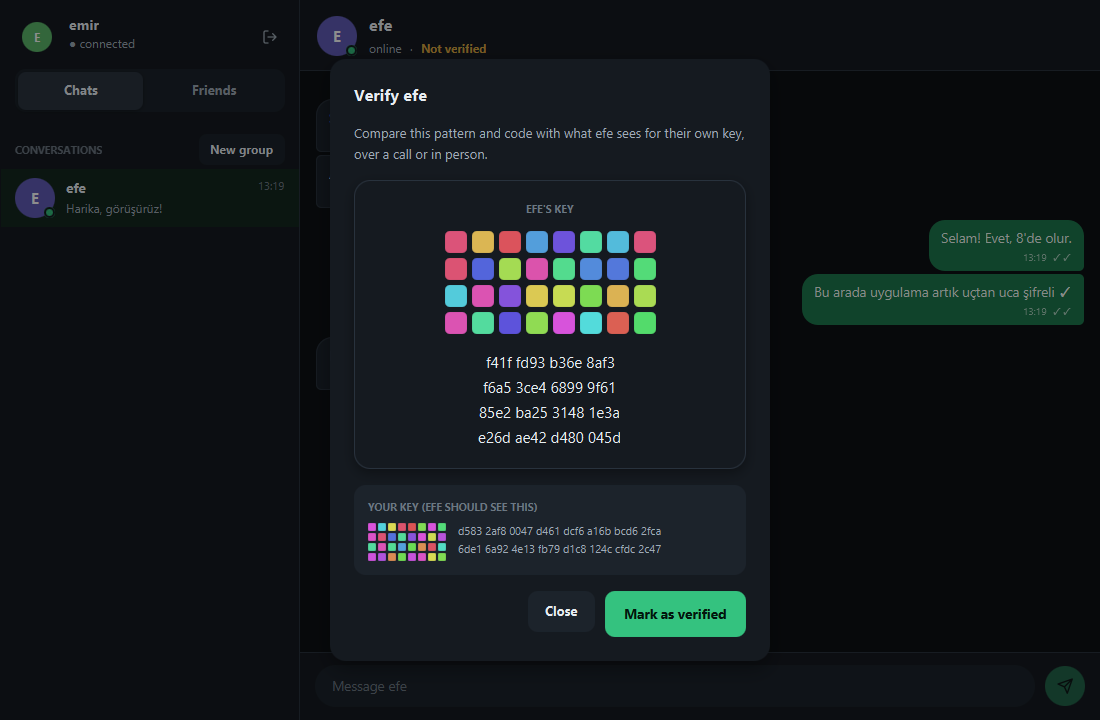
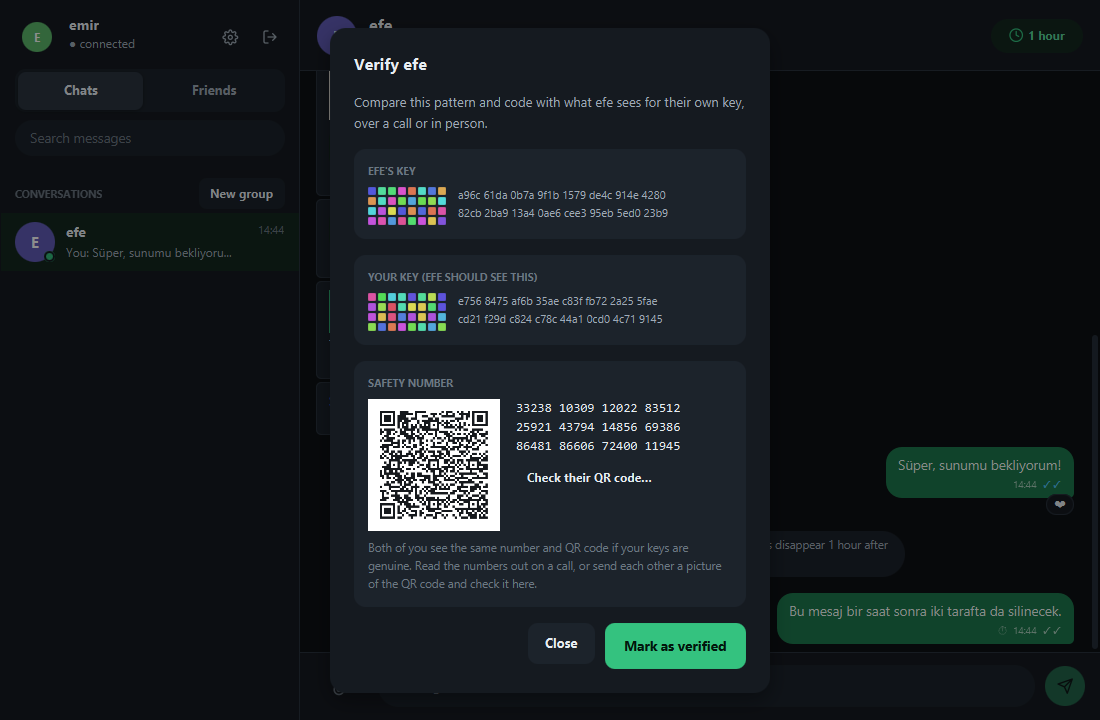
Document v3.2: messaging features, verification, backups, hosting, releases
README: new desktop features, how to verify downloads, a hosting
section, threat-model rows for edits/deletes, safety numbers and
backups, updated tests, limitations and roadmap; new screenshots.
CHANGELOG: 3.2.0 section.

diff --git a/README.md b/README.md
@@ -19,11 +19,22 @@ direct message, and Sender Keys for groups.
 
 ## Quick start
 
-Download the jar for your platform from the [latest release](https://github.com/aemircicek/secure-chat/releases/latest)
-(Java 21+ required), or build it yourself with `mvn verify`.
+From the [latest release](https://github.com/aemircicek/secure-chat/releases/latest), download
+either a package with Java included (Windows: portable `.zip`, macOS: `.dmg`, Linux: `.deb`) or
+the jar for your platform (Java 21+ required). Or build it yourself with `mvn verify`.
+
+Check a download before running it, with the checksum file or GitHub's signed build provenance:
 
 ```sh
-java -jar secure-chat.jar server                    # run a server on port 5056
+sha256sum -c SHA256SUMS --ignore-missing                       # on Windows: Get-FileHash <file>
+gh attestation verify secure-chat-windows-x64.jar -R aemircicek/secure-chat
+```
+
+The packages are not code-signed (that needs paid certificates), so Windows SmartScreen and macOS
+Gatekeeper warn on first start.
+
+```sh
+java -jar secure-chat.jar server                    # run a server on port 5056 (or see docs/deploy.md)
 java -jar secure-chat.jar                           # desktop app: register or log in
 ```
 
@@ -43,12 +54,16 @@ java -jar secure-chat.jar gui --home ./bob
   that it is pinned and a different key is refused.
 - **Friends**: send, accept and decline requests; see who is online.
 - **Direct messages**: end-to-end encrypted, delivered later if your friend is offline, with
-  ✓ sent / ✓✓ delivered marks and unread counts.
+  ✓ sent / ✓✓ delivered / blue ✓✓ read marks and unread counts.
+- **Replies, reactions, edits and deletes**: right-click a message to reply to it, react, edit
+  your own text, or delete it for everyone. Only the author's edits and deletions are accepted.
+- **Typing and read receipts**: friends who are online see when you type, and blue ticks when
+  you have read their messages; both can be turned off in Settings.
 - **Groups**: create a group from your friends, add and remove members, rename it, leave; the
   owner role passes to the longest-standing member if the owner leaves. Group names are end-to-end
   encrypted: the server stores only ciphertext.
-- **Contact verification**: compare a friend's key as a colour pattern and hex code, then mark
-  them verified.
+- **Contact verification**: compare a 60-digit safety number on a call, or check a picture of
+  your friend's QR code; both sides compute the same code from both keys.
 - **Key-change warning**: if a friend's key changes (new device, or an attack), messages to them
   are held back until you verify the new key.
 - **Files and images**: send any file up to 25 MB to a friend or a group (📎 next to the message
@@ -58,10 +73,17 @@ java -jar secure-chat.jar gui --home ./bob
   Everyone in the chat gets the same setting, and new messages and files are deleted from every
   device's history that long after they arrive.
 - **Encrypted history**: messages are stored on disk encrypted under a key derived from your password.
+- **Search**: find messages and file names across all chats (decrypted locally, never sent anywhere).
+- **Notifications**: a desktop notification when a message arrives while the window is in the
+  background; showing the text in it is optional.
+- **Encrypted backup**: Settings → *Back up this account* saves keys, sessions and history in one
+  file encrypted with a passphrase of your choice; *Restore from a backup* on the login screen
+  moves the account to another computer.
 - Light and dark themes, following the system.
 
 <p align="center">
-  <img src="docs/screenshots/account-files-dark.png" width="560" alt="An encrypted image and document in a chat">
+  <img src="docs/screenshots/account-files-dark.png" width="420" alt="An encrypted image and document in a chat">
+  <img src="docs/screenshots/account-rich-light.png" width="420" alt="A reply, an edit, a reaction, read ticks and typing">
 </p>
 
 <p align="center">
@@ -76,6 +98,8 @@ java -jar secure-chat.jar gui --home ./bob
 java -jar secure-chat.jar server [--port 5056] [--bind 0.0.0.0] [--data ~/.securechat-server]
 java -jar secure-chat.jar register --server localhost:5056 --username emir
 java -jar secure-chat.jar client   --server localhost:5056 --username emir
+java -jar secure-chat.jar backup   --out emir.scbackup [--home ~/.securechat]
+java -jar secure-chat.jar restore  --in emir.scbackup  [--home ~/.securechat]
 ```
 
 `client` opens an interactive shell (`msg`, `file`, `save`, `timer`, `friends`, `add`, `accept`, `group`, `gmsg`,
@@ -93,6 +117,11 @@ java -jar secure-chat.jar host --name emir                  # wait for a peer on
 java -jar secure-chat.jar connect 192.168.1.3 --name efe    # connect to a host
 java -jar secure-chat.jar fingerprint                       # show your identity key
 ```
+
+## Hosting a server
+
+[docs/deploy.md](docs/deploy.md) walks through running the server on a small VPS with Docker (or
+systemd): firewall, verifying the server fingerprint, updates and server backups.
 
 ## Security design
 
@@ -123,6 +152,9 @@ must not be able to read or forge messages. User devices are trusted.
 | File confidentiality | Each file is encrypted with a fresh AES-256-GCM key; the server stores only the ciphertext, and the key travels in an end-to-end encrypted message |
 | File integrity | The receiver checks the SHA-256 digest of the blob (sent end-to-end) before decrypting; GCM authenticates the content |
 | File access | Only the uploader and the named audience (the friend, or current group members) can download; unknown and forbidden ids look the same |
+| Edits and deletions | Messages carry a random id inside the ciphertext; an edit or "delete for everyone" is applied only if it comes from the message's author |
+| Contact verification | A safety number (60 digits or a QR code) derived from both identity keys; both sides compute the same value, so a substituted key shows up as a mismatch |
+| Backups | Zip of the key directory encrypted with AES-256-GCM under PBKDF2-HMAC-SHA256 (600k) of a separate passphrase; restore refuses paths outside the target folder |
 | Disappearing messages | The timer travels inside the encrypted message; expired rows are deleted with SQLite `secure_delete` and cached files are removed |
 | Resource exhaustion | Frame and message size limits, offline queue and prekey caps, prekey-fetch rate limits, 25 MB per file, 250 MB of stored files per user |
 
@@ -201,19 +233,19 @@ Users then authenticate with their password inside the channel. Low-order X25519
 |---|---|
 | `com.emirchat.crypto` | `Hkdf` (RFC 5869), `Identity` (Ed25519 keys, fingerprints), `X25519` |
 | `com.emirchat.protocol` | `FrameIO` (bounded framing), `Wire` (strict encoding), `Handshake` (SIGMA-I), `SecureChannel` |
-| `com.emirchat.e2e` | `X3dh`, `DoubleRatchet`, `GroupKeys` (Sender Keys), `Attachments` (file encryption), `Messenger`, `DeviceKeys`, `PrekeyBundle` |
+| `com.emirchat.e2e` | `X3dh`, `DoubleRatchet`, `GroupKeys` (Sender Keys), `GroupNames`, `Attachments` (file encryption), `Messenger`, `DeviceKeys`, `PrekeyBundle` |
 | `com.emirchat.server` | `ChatServer`, accounts, friends, groups, offline queue, `AttachmentService`, `PasswordHasher`, `RateLimiter`, SQLite |
-| `com.emirchat.client` | `ChatClient`, `ServerConnection`, encrypted `History` |
+| `com.emirchat.client` | `ChatClient`, `ServerConnection`, encrypted `History`, `Backup` |
 | `com.emirchat.api` | `Packet` (client–server messages), error codes |
-| `com.emirchat.trust` | `KnownPeers` (TOFU store for servers and contacts) |
-| `com.emirchat.ui` | JavaFX desktop app: screens, theme, fingerprint art |
+| `com.emirchat.trust` | `KnownPeers` (TOFU store for servers and contacts), `SafetyNumber` |
+| `com.emirchat.ui` | JavaFX desktop app: screens, theme, fingerprint art, QR codes, notifications |
 | `com.emirchat.chat` | `ChatMessage`, `FileMessage` (file description and safe names), terminal sanitising |
 | `com.emirchat.net` | Direct mode: connect/host |
-| `com.emirchat` | `Main`, `SecureChat` and `AccountCli` command lines, `ClientShell` |
+| `com.emirchat` | `Main`, `SecureChat`, `AccountCli` and `BackupCli` command lines, `ClientShell` |
 
 ### Tests
 
-`mvn verify` runs 139 tests, including RFC 5869 test vectors and attack scenarios:
+`mvn verify` runs 160 tests, including RFC 5869 test vectors and attack scenarios:
 
 - **Transport**: tampered, replayed, reordered and reflected records; an impersonated client or
   server presenting a different key; tampered handshake messages.
@@ -227,6 +259,13 @@ Users then authenticate with their password inside the channel. Low-order X25519
 - **Files**: a blob swapped or modified on the server is refused, a wrong key fails, only the
   recipient or current group members can download, uploads must arrive in order and in full,
   expiry and per-user quotas, hostile file names (`../../etc/passwd`, right-to-left overrides).
+- **Messages**: ids shared by both sides, replies, reactions, edits and deletes accepted only from
+  the author, read receipts that only touch our own messages and are never undone by a late
+  "sent", search that skips deleted messages.
+- **Verification and backups**: safety numbers are symmetric and change when a key is swapped, QR
+  codes survive a round trip through a picture; backups detect a wrong passphrase and tampering,
+  never delete existing data, reject zip-slip paths, and a restored account keeps chatting with no
+  key change.
 - **Server**: registration and login rules, identical errors for wrong password and unknown user,
   brute-force limits, friend and group permissions, the offline queue in order, delivery
   receipts, a tampering server being caught, and the server storing only ciphertext.
@@ -253,16 +292,24 @@ Honest notes on what this project does **not** do:
 - **Disappearing messages rely on the other side's app.** They protect against a device being
   lost or seized later, not against a recipient who takes a screenshot or runs a modified client.
   The terminal client keeps no history at all.
+- **Typing notices and read receipts** tell friends when you are active (turn them off in Settings);
+  their timing, like any message, is visible to the server even though their content is encrypted.
+- **Notifications** may show message text in the operating system's notification centre unless
+  you turn that off.
+- **A backup is as strong as its passphrase**, and restoring it moves the account: keep using
+  only one computer afterwards.
+- **Releases are not code-signed** (no Authenticode or Apple notarization). Check downloads with
+  `SHA256SUMS` and `gh attestation verify`.
 - **Registration reveals whether a username is taken.**
 - **Best-effort key wiping** only: the JVM may keep copies of key material in memory.
 
 ## Roadmap
 
 - Passphrase-encrypted identity keys and session state
-- QR-code contact verification
-- Fuzzing the decoders (Jazzer)
-- Deployment guide for a VPS (Docker, firewall)
-- Multiple devices per account; voice messages
+- Fuzzing the decoders (Jazzer) and a written security report
+- Sealed sender and message-size padding (less metadata for the server)
+- A formal model of the handshake and X3DH (ProVerif or Tamarin)
+- Multiple devices per account; servers and channels; voice messages
 
 ## Security
 

diff --git a/CHANGELOG.md b/CHANGELOG.md
@@ -1,5 +1,29 @@
 # Changelog
 
+## Unreleased (3.2.0)
+
+### Added
+- **Replies, reactions, edits and "delete for everyone"**: messages carry an id inside the
+  ciphertext; reactions, edits and deletions refer to it, and edits and deletions are accepted
+  only from the author. Right-click a message in the desktop app.
+- **Read receipts and typing indicators** for direct chats, both optional (Settings). Typing
+  notices are only sent to friends who are online, so none are queued on the server.
+- **Search** across all chats, decrypted locally.
+- **Desktop notifications** through the system tray, with optional message preview.
+- **Safety numbers and QR codes** for contact verification: 60 digits to read out, or check a
+  picture of the friend's QR code.
+- **Encrypted backup and restore** of keys, sessions and history (desktop and
+  `secure-chat backup` / `restore`), protected by a separate passphrase.
+- **Server deployment**: Dockerfile, docker-compose.yml, a hardened systemd unit and
+  [docs/deploy.md](docs/deploy.md).
+- **Release packages** with Java included (Windows zip, macOS dmg, Linux deb), Sigstore build
+  provenance for every file, and `SHA256SUMS`.
+- 21 new tests (160 in total).
+
+### Changed
+- New messages use a format with message ids; 3.1 messages are still read. Update all clients
+  together.
+
 ## Unreleased (3.1.0)
 
 ### Added
